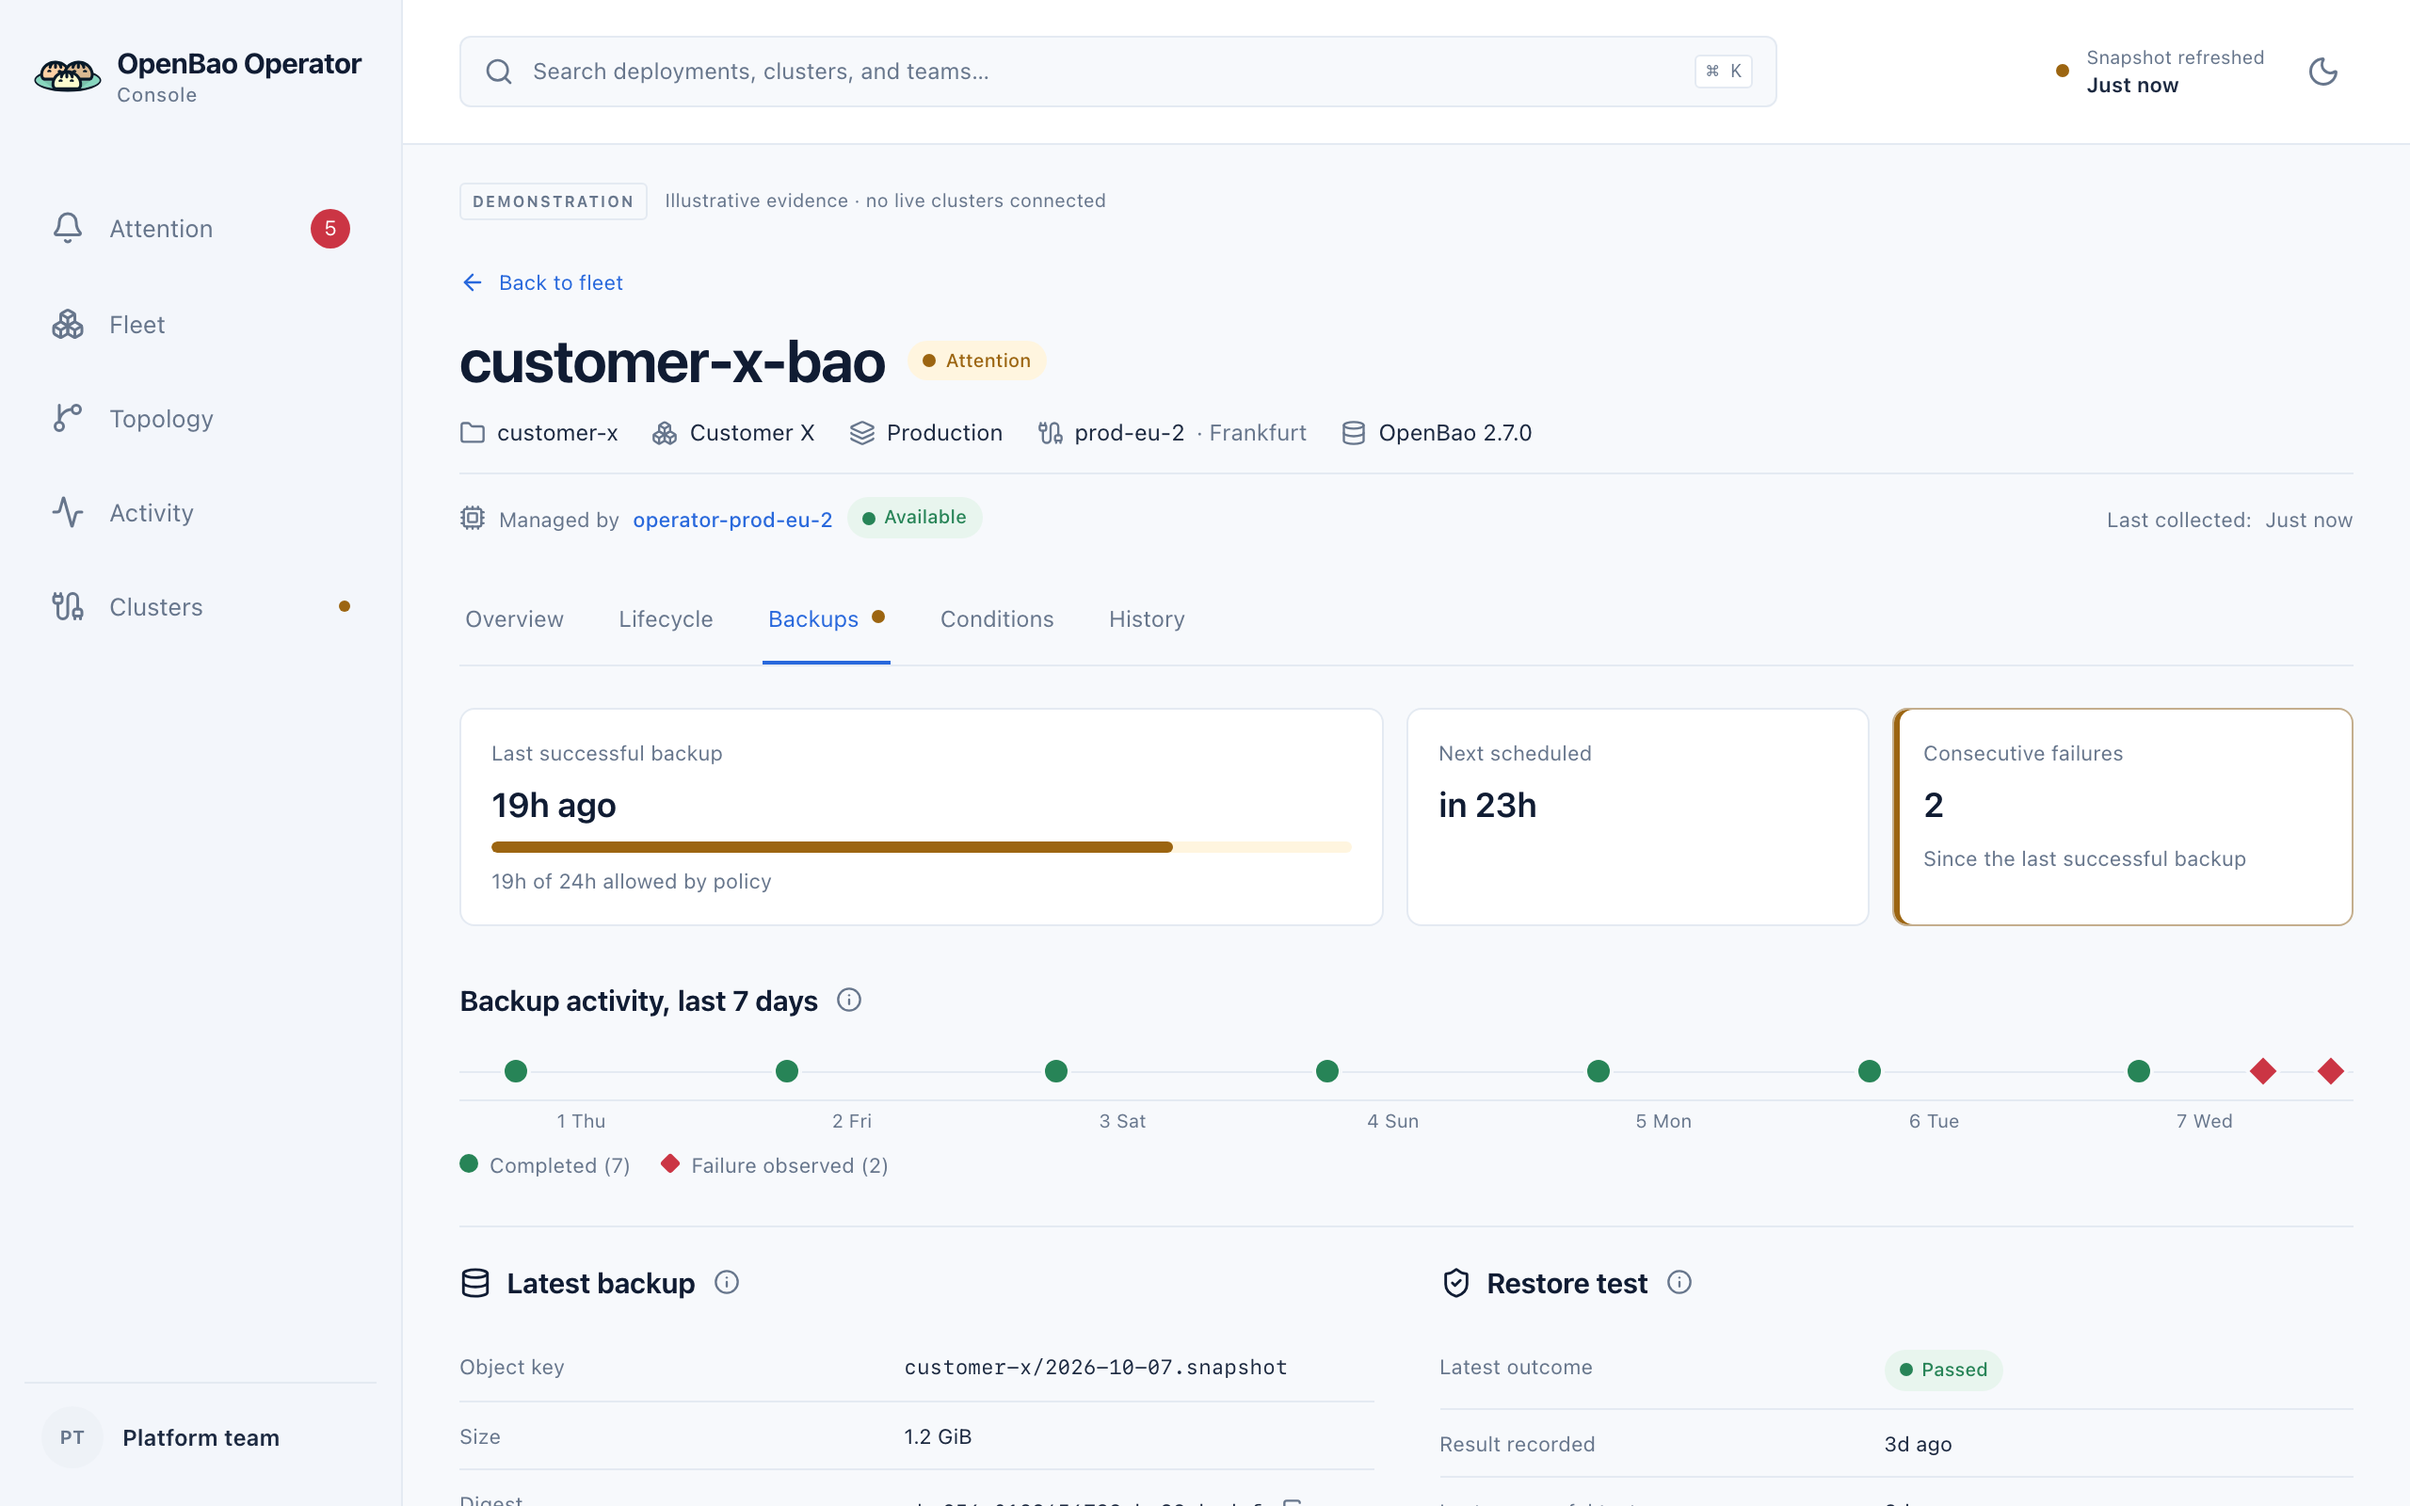
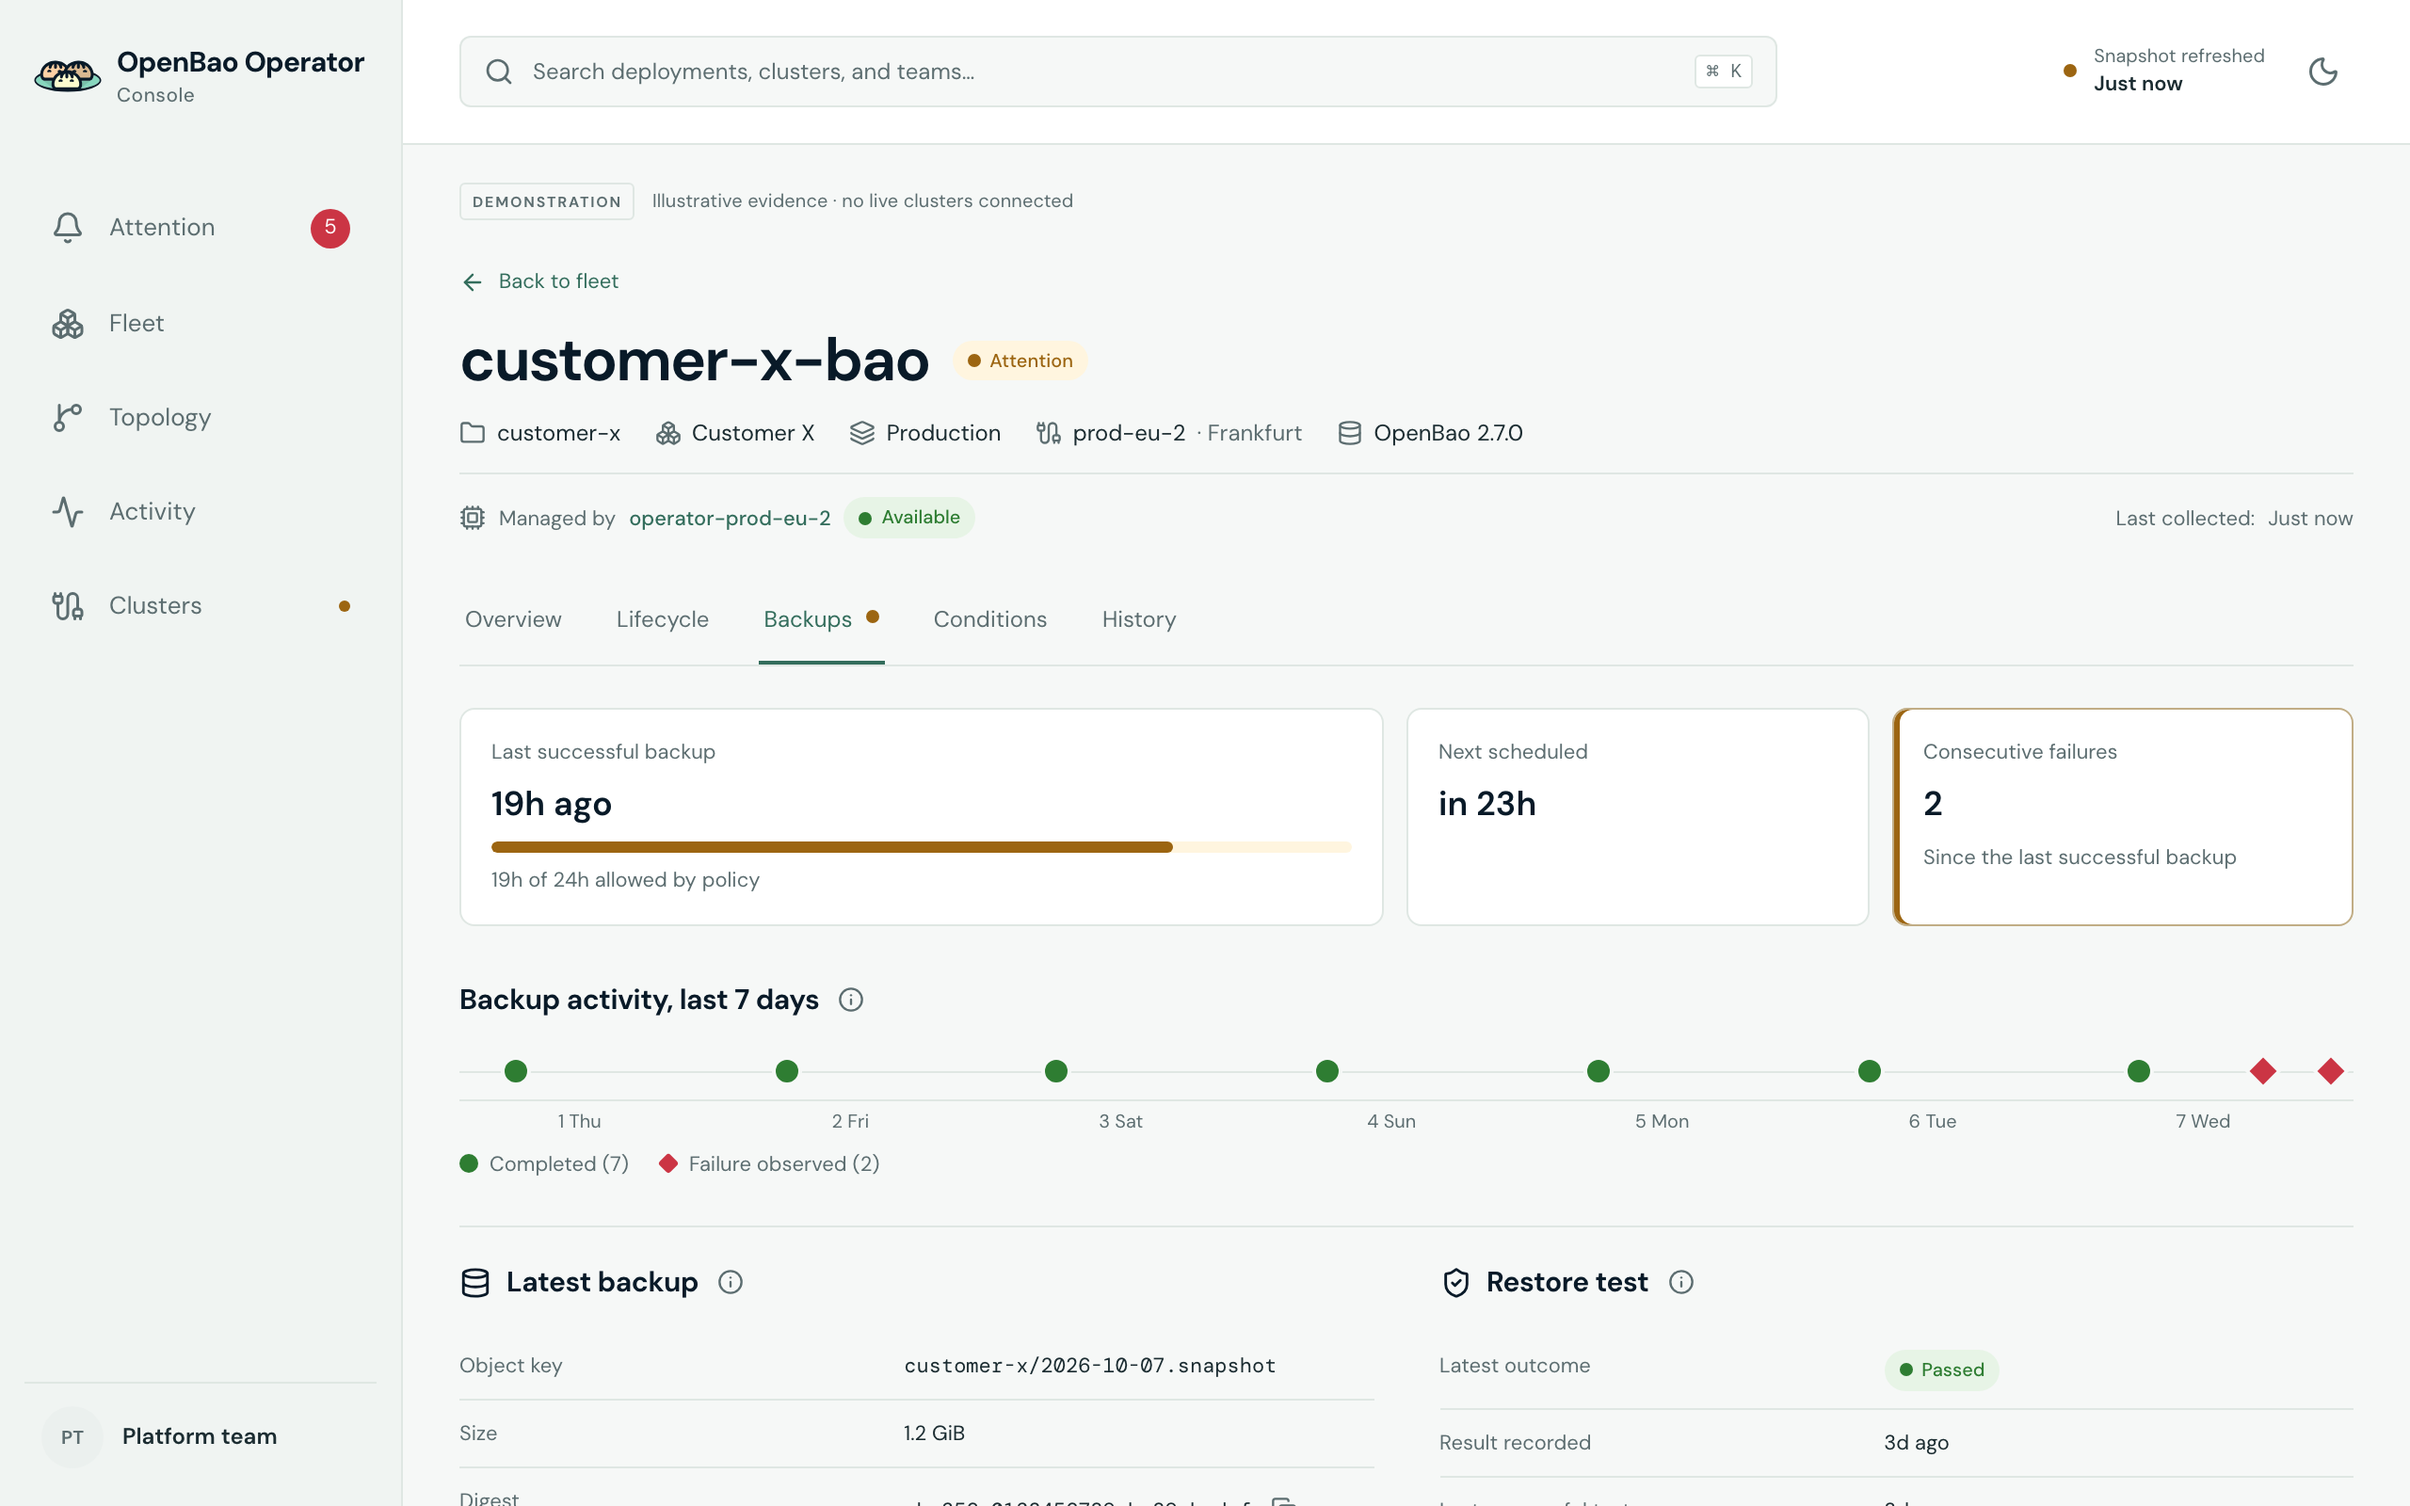
feat(web): adopt OpenBao brand colors and typography

diff --git a/web/src/styles.css b/web/src/styles.css
@@ -1,60 +1,66 @@
 @import 'tailwindcss';
 
 :root {
+  /* OpenBao brand: DM Sans for text, primary #336d5c and shadow green #79c0ab for interaction,
+     border ink #091a28 for headings. Status colors stay separate from the brand accent. */
   font-family:
-    Inter,
+    'DM Sans Variable',
     -apple-system,
     BlinkMacSystemFont,
     'Segoe UI',
     sans-serif;
-  color: #1c2940;
-  background: #f7f9fc;
+  color: #1b2c31;
+  background: #f6f8f7;
   font-synthesis: none;
   text-rendering: optimizeLegibility;
   -webkit-font-smoothing: antialiased;
-  --background: #f7f9fc;
+  --background: #f6f8f7;
   --surface: #fff;
-  --sidebar: #f3f6fb;
-  --foreground: #1c2940;
-  --heading: #101c33;
-  --muted-foreground: #67768c;
-  --muted: #eef2f7;
-  --border: #e4eaf2;
-  --accent: #2868dc;
-  --accent-soft: #eaf1ff;
-  --green: #278457;
-  --green-soft: #e8f5ee;
+  --sidebar: #f0f4f2;
+  --foreground: #1b2c31;
+  --heading: #091a28;
+  --muted-foreground: #5c6d70;
+  --muted: #ebf0ee;
+  --border: #dfe7e3;
+  --accent: #336d5c;
+  --accent-soft: #e1f1ea;
+  --info: #2868dc;
+  --info-soft: #eaf1ff;
+  --green: #2e7d32;
+  --green-soft: #e7f4e6;
   --amber: #9c6511;
   --amber-soft: #fff5df;
   --red: #cb3544;
   --red-soft: #fff0f1;
-  --graph-dot: #dce3ed;
-  --graph-edge: #8493ad;
-  --shadow: 0 12px 45px #172c4e16;
+  --graph-dot: #d6e0dc;
+  --graph-edge: #7f9690;
+  --shadow: 0 12px 45px #091a2814;
   --brand-glow: #87d6be33;
 }
 
 [data-theme='dark'] {
   color-scheme: dark;
-  --background: #111923;
-  --surface: #18222f;
-  --sidebar: #141d29;
-  --foreground: #dbe4f0;
-  --heading: #eef3fa;
-  --muted-foreground: #98a8bd;
-  --muted: #223041;
-  --border: #2a3749;
-  --accent: #83acff;
-  --accent-soft: #233752;
-  --green: #72d3a3;
-  --green-soft: #1c3b31;
+  --background: #0b1620;
+  --surface: #12202b;
+  --sidebar: #0e1a24;
+  --foreground: #d8e4e7;
+  --heading: #f0f6f4;
+  --muted-foreground: #93a5ab;
+  --muted: #1b2b36;
+  --border: #253643;
+  --accent: #79c0ab;
+  --accent-soft: #19362f;
+  --info: #83acff;
+  --info-soft: #1f3350;
+  --green: #8fd17f;
+  --green-soft: #1e3a22;
   --amber: #f0c571;
-  --amber-soft: #3d3222;
+  --amber-soft: #3a3020;
   --red: #ff929c;
-  --red-soft: #402731;
-  --graph-dot: #2d3c51;
-  --graph-edge: #8d9fb9;
-  --shadow: 0 12px 45px #0005;
+  --red-soft: #3d2530;
+  --graph-dot: #263846;
+  --graph-edge: #8aa0a8;
+  --shadow: 0 12px 45px #0006;
   --brand-glow: #87d6be1f;
 }
 
@@ -131,7 +137,7 @@ strong {
   font-weight: 600;
 }
 code {
-  font-family: 'SFMono-Regular', Consolas, monospace;
+  font-family: 'DM Mono', 'SFMono-Regular', Consolas, monospace;
   font-size: 11px;
   overflow-wrap: anywhere;
 }
@@ -253,7 +259,7 @@ input {
   font-size: 11px;
 }
 [data-theme='dark'] .nav-count {
-  color: #1c2633;
+  color: var(--background);
 }
 .nav-warning {
   margin-left: auto;
@@ -276,7 +282,7 @@ input {
   letter-spacing: 0.25px;
 }
 .read-only .status-dot {
-  background: var(--accent);
+  background: var(--info);
   width: 5px;
   height: 5px;
 }
@@ -1123,8 +1129,8 @@ tbody tr:hover {
   color: var(--green);
 }
 .role-recoveryTarget {
-  background: var(--accent-soft);
-  color: var(--accent);
+  background: var(--info-soft);
+  color: var(--info);
 }
 .topology-count {
   font-size: 11px;
@@ -1297,7 +1303,7 @@ tbody tr:hover {
 .dialog-overlay {
   position: fixed;
   inset: 0;
-  background: #09142565;
+  background: #091a2866;
   z-index: 100;
   backdrop-filter: blur(3px);
   animation: fade-in 0.15s ease;
@@ -1850,7 +1856,7 @@ tbody tr:hover {
 .settings-field textarea,
 .connection-check textarea {
   resize: vertical;
-  font-family: 'SFMono-Regular', Consolas, monospace;
+  font-family: 'DM Mono', 'SFMono-Regular', Consolas, monospace;
   font-size: 0.75rem;
 }
 .settings-field input:focus,
@@ -2286,10 +2292,10 @@ tbody tr:hover {
   margin-top: 2px;
 }
 .sign-in-notice-info {
-  background: var(--accent-soft);
+  background: var(--muted);
 }
 .sign-in-notice-info svg {
-  color: var(--accent);
+  color: var(--muted-foreground);
 }
 .sign-in-notice-error {
   background: var(--red-soft);
@@ -2303,16 +2309,6 @@ tbody tr:hover {
   padding: 11px 16px;
   font-size: 13px;
   font-weight: 550;
-}
-.sign-in-panel > .sign-in-footnote {
-  margin-top: 1.25rem;
-  font-size: 11.5px;
-}
-.sign-in-footnote svg {
-  display: inline;
-  vertical-align: -2px;
-  margin-right: 6px;
-  color: var(--green);
 }
 .initial-fleet {
   max-width: 680px;
@@ -3148,7 +3144,7 @@ tr.finding-critical > td {
   color: var(--muted-foreground);
 }
 .upgrade-state.upgrade-upgrading {
-  color: var(--accent);
+  color: var(--info);
 }
 .upgrade-state.upgrade-failed {
   color: var(--red);
@@ -3303,8 +3299,8 @@ tr.finding-critical > td {
   background: var(--green-soft);
 }
 .phase-steps li.active {
-  color: var(--accent);
-  background: var(--accent-soft);
+  color: var(--info);
+  background: var(--info-soft);
   font-weight: 600;
 }
 .phase-steps li.failed {
@@ -3541,7 +3537,7 @@ tr.finding-critical > td {
   color: var(--green);
 }
 .condition-active > svg {
-  color: var(--accent);
+  color: var(--info);
 }
 .condition.finding-critical,
 .condition.finding-high {

diff --git a/web/src/components/sign-in.tsx b/web/src/components/sign-in.tsx
@@ -1,4 +1,4 @@
-import { CircleAlert, Info, LogIn, ShieldCheck } from 'lucide-react'
+import { CircleAlert, Info, LogIn } from 'lucide-react'
 
 // Bounded reasons set by the backend after a failed or ended login. Provider errors never
 // reach the browser.
@@ -56,10 +56,6 @@ export function SignIn() {
           <LogIn size={16} />
           Sign in with single sign-on
         </a>
-        <p className="sign-in-footnote">
-          <ShieldCheck size={14} />
-          Read-only. The console never changes your clusters.
-        </p>
       </div>
     </main>
   )

diff --git a/web/index.html b/web/index.html
@@ -3,7 +3,7 @@
   <head>
     <meta charset="UTF-8" />
     <meta name="viewport" content="width=device-width, initial-scale=1.0" />
-    <meta name="theme-color" content="#f7f9fc" />
+    <meta name="theme-color" content="#f6f8f7" />
     <meta name="description" content="Operational evidence for your OpenBao fleet." />
     <title>OpenBao Operator Console</title>
     <link rel="icon" type="image/svg+xml" href="/logo.svg" />

diff --git a/web/src/main.tsx b/web/src/main.tsx
@@ -3,6 +3,8 @@ import { createRoot } from 'react-dom/client'
 import { RouterProvider } from '@tanstack/react-router'
 import { QueryClient, QueryClientProvider } from '@tanstack/react-query'
 import { router } from './router'
+import '@fontsource-variable/dm-sans'
+import '@fontsource/dm-mono/400.css'
 import './styles.css'
 
 const element = document.getElementById('root')
